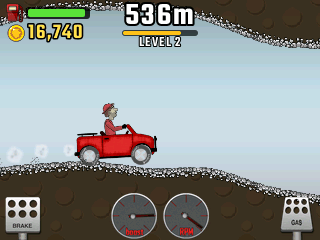
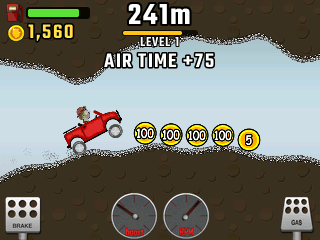
Hill Climb Racing: its README, pictures and GIFs for the game's own physics and levels

diff --git a/games/hillclimb/tests/play.c b/games/hillclimb/tests/play.c
@@ -149,7 +149,7 @@ int main(int argc, char **argv) {
     uint32_t k = 0;
     for (int i = 0; i < nholds; i++)
       if (f >= holds[i].a && f <= holds[i].b) k |= holds[i].k;
-    if (autop && g_mode == MODE_RUN) k |= autopilot();
+    if (autop && g_mode == MODE_RUN && !k) k = autopilot();   /* (--keys take over while they are held) */
     host_keys = k;
     game_frame(k);
     host_time += 17;

diff --git a/games/hillclimb/README.md b/games/hillclimb/README.md
@@ -22,21 +22,22 @@
 
 ## Highlights
 
-* **Real physics, like the game's:** the chassis and each wheel are bodies of their own, the wheels hang on springs, and the engine turns them against the chassis, so the nose rises when you floor it and you can flip over backwards on a steep hill. In the air, gas tilts you back and brake tilts you forward.
-* **Bill's neck:** land on his head, or let the roof of a cave touch it, and it's *Driver down*. Run out of fuel and you roll to a stop. Fuel cans come at the stage's own spacing, as in the game.
-* **Coins of 5, 25, 100 and 500**, bigger the further you go, in rows and stacks along the road. **Air time** pays from a second in the air on (25, 50, 75, 100, then *Big air time* 200 to 500, then *Insane air time* from 1,000 up to 25,000), every **flip** and **back flip** 1,000, and a **neck flip** (going down in the middle of one) 2,500. Each **level** of the road pays its reward when you reach its end.
+* **The game's own physics:** it runs on Box2D 2.2.1, the physics engine the game itself uses, 60 steps a second, with the game's own numbers read from its Android package: each vehicle's chassis, wheels, springs, engine, turbo, brakes, air control and downforce, each stage's gravity and grip, and the ground in pieces of half a meter. The wheels hang on springs and the engine turns them against the chassis, so the nose rises when you floor it and you can flip over backwards on a steep hill. In the air, gas tilts you back and brake tilts you forward.
+* **Bill's neck:** when his head touches the ground or a cave's roof, it's *Driver down*, and the run ends 4 seconds later. A tank lasts 40 seconds (the Dune Buggy and the Tank burn theirs at their own rate, which their Fuel upgrade lowers), each fuel can fills it up, and the cans come at the stage's own spacing. When it runs dry you roll on for 4 more seconds.
+* **Coins of 5, 25, 100 and 500**, bigger the further you go, in rows along the road. **Air time** pays from 0.75 s in the air, every 0.2 s: 25 for the first four steps, then *Big air time* 100 each, then *Insane air time* 500 each. Every **flip** and **back flip** pays 1,000, and a **neck flip** (going down in the middle of one) 2,500.
+* **Levels, as in the game:** each stage has its own, kept from run to run. Reach the goal (200 m on the Countryside, then 400 m, 600 m...) and its bonus is paid; the next one waits for you, on this run or the next.
 * **Ten stages**, each with its own ground, sky, grip, gravity and spacing of fuel, with the game's prices:
 
   | Stage | Price | |
   | --- | --- | --- |
-  | Countryside | free | Rolling hills that get steep and jagged further on |
-  | Desert | 35,000 | Steep dunes and rope bridges over canyons, sagging under you |
+  | Countryside | free | Rolling hills that get steep and jagged further on, and rope bridges that sag under you |
+  | Desert | 35,000 | Steep dunes, and canyons with rope bridges further apart |
   | Arctic | 75,000 | The Countryside's hills, but on slippery snow |
   | Highway | 125,000 | Flat and fast at first; the fuel cans get further and further apart |
   | Cave | 150,000 | A ceiling over your head: hit it with Bill and it's over. Fuel every 150, 120 and 90 m |
   | Moon | 175,000 | Low gravity: long jumps, big air time and flips, the Earth in the sky |
   | Mars | 250,000 | Lighter than home, with tunnels now and then |
-  | Alien Planet | 750,000 | A slimy, sloped world under a green night |
+  | Alien Planet | 750,000 | A slimy, slippery, sloped world under a green night |
   | Arctic Cave | 800,000 | A cave of ice, slippery, with icicles hanging from its roof |
   | Forest | 850,000 | Bunches of pine trees in the way: ram them or push them over |
 
@@ -47,7 +48,7 @@
   | Hill Climber | free | Engine, Suspension, Tires, 4WD |
   | Motocross Bike | 75,000 | Engine, Suspension, Tires, Air Control |
   | Monster Truck | 100,000 | Engine, Suspension, Tires, 4WD |
-  | Quad Bike | 175,000 | Engine, Suspension, Tires, Air Control (four-wheel drive) |
+  | Quad Bike | 175,000 | Engine, Suspension, Tires, 4WD |
   | Race Car | 250,000 | Engine, Suspension, Tires, Downforce |
   | Rally Car | 750,000 | Engine, Suspension, Tires, Downforce |
   | Dune Buggy | 800,000 | Engine, Suspension, Tires, Fuel |
@@ -81,8 +82,10 @@
 
 ## Credits
 
-**Hill Climb Racing** is [Fingersoft](https://fingersoft.com)'s game (2012), with Newton Bill at the wheel. This version is written in C for NumPlay: its physics, stages and menus are made for the calculator, and its pictures (the vehicles, Bill, the coins, the stages' grounds and skies, the pedals, meters, icons and the logo) are the game's own, as the [Hill Climb Racing Wiki](https://hillclimbracing.fandom.com) keeps them; the prices, upgrades, stages' fuel and levels, and the coins' and bonuses' values are the game's as the wiki records them. Its text is set in **Teko** (SIL Open Font License, [license](../../LICENSES/OFL-1.1-Teko.txt)). It is an unofficial fan game, not affiliated with Fingersoft.
+**Hill Climb Racing** is [Fingersoft](https://fingersoft.com)'s game (2012), with Newton Bill at the wheel. This version is written in C and C++ for NumPlay. How it plays is the game's own: the vehicles, the stages' ground, gravity and grip, the bridges and trees, the coins, fuel, levels, prices and bonuses follow the numbers and rules read from the game's Android package (versions 1.0 to 1.70, mostly 1.10 and 1.16), and were checked against videos of the game. Its pictures (the vehicles, Bill, the coins, the stages' grounds and skies, the pedals, meters, icons and the logo) are the game's own, as the [Hill Climb Racing Wiki](https://hillclimbracing.fandom.com) keeps them. Its text is set in **Teko** (SIL Open Font License, [license](../../LICENSES/OFL-1.1-Teko.txt)). It is an unofficial fan game, not affiliated with Fingersoft.
+
+The physics is **Box2D 2.2.1** by Erin Catto (zlib license, [src/box2d/License.txt](src/box2d/License.txt)), the version the game is built with, cut down to the parts the game uses. The files changed to fit the calculator say so at their top.
 
 `tools/fetch.py` gathers the wiki's pictures and the font, and `tools/pack.py` turns them into `src/data.bin` (committed, so building needs no network).
 
-Build: `make` (needs `arm-none-eabi-gcc` and Node.js for nwlink). `make test` plays it on a computer with the sanitizers (tests/check.py).
+Build: `make` (needs `arm-none-eabi-gcc` and `arm-none-eabi-g++`, and Node.js for nwlink). `make test` plays it on a computer with the sanitizers (tests/check.py).

diff --git a/docs/play.md b/docs/play.md
@@ -418,7 +418,7 @@ Hill Climb Racing comes as its own app, `HillClimbRacing.nwa`: it is too big to 
 | **Back** | Pause (Resume, Restart, Garage, Quit game) |
 | **Home** | Keep the run's coins and quit |
 
-Drive as far as you can before the fuel runs out or Bill lands on his head. Pick up fuel cans on the way, collect coins, and earn more with air time and flips; each level of the road pays a reward. In the garage, spend coins on new vehicles and their four upgrades, and on new stages: the Desert's rope bridges, the slippery Arctic, the Cave's ceiling, the Moon's low gravity, the Forest's trees to ram through. Your coins, upgrades and best distances are saved, and copied into `hillclimb_saves.py` so installing the app again doesn't erase them.
+Drive as far as you can before the fuel runs out or Bill lands on his head. It drives like the real game: the same physics engine (Box2D) with the game's own numbers for every vehicle and stage. Pick up fuel cans on the way, collect coins, and earn more with air time and flips; each stage's levels pay a bonus when you reach their goal, and the next level waits for you on your next run. In the garage, spend coins on new vehicles and their four upgrades, and on new stages: the Desert's dunes, the slippery Arctic, the Cave's ceiling, the Moon's low gravity, the Forest's trees to ram through, with rope bridges along the way. Your coins, upgrades, levels and best distances are saved, and copied into `hillclimb_saves.py` so installing the app again doesn't erase them.
 
 <br clear="right">
 
